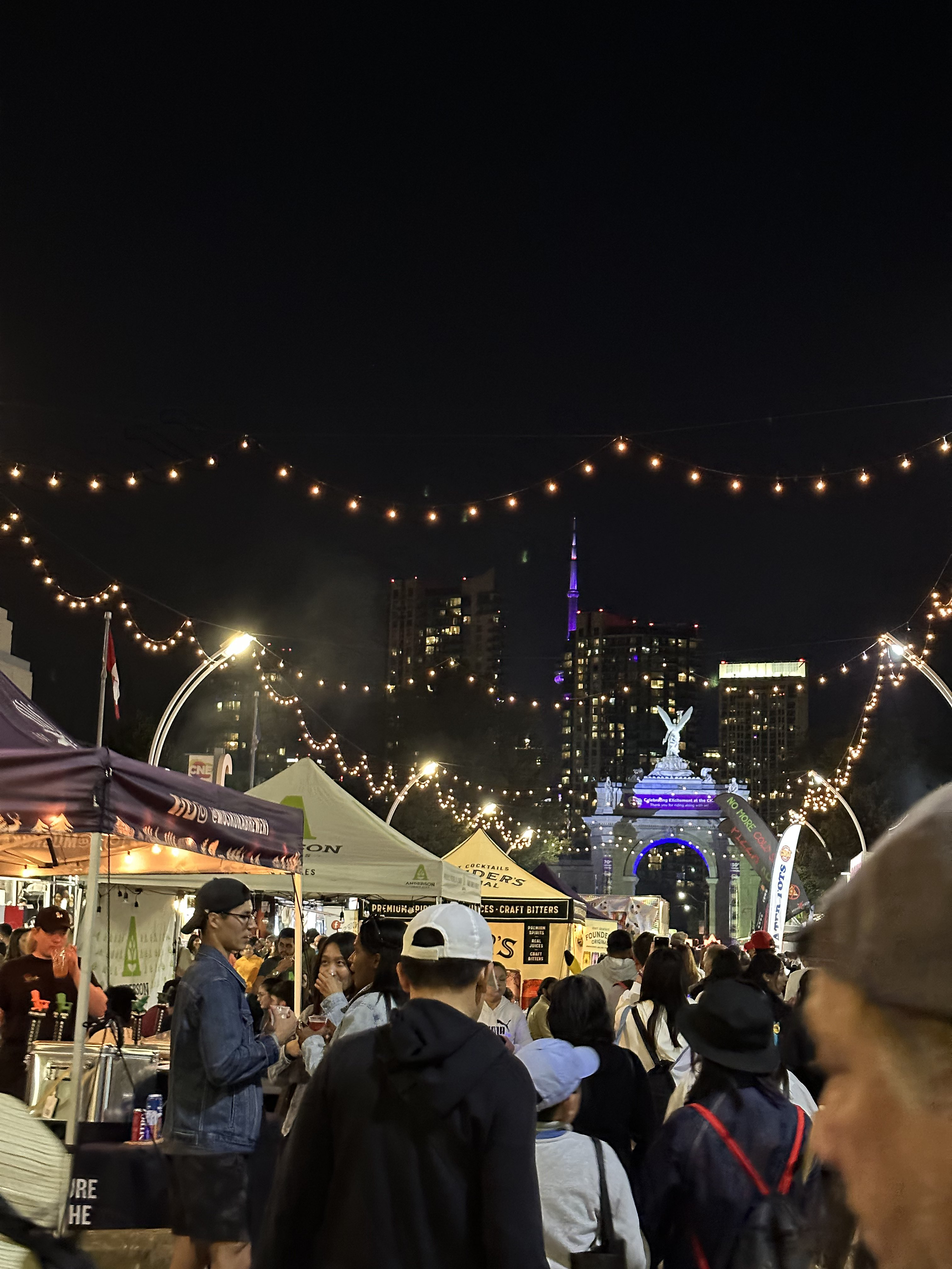
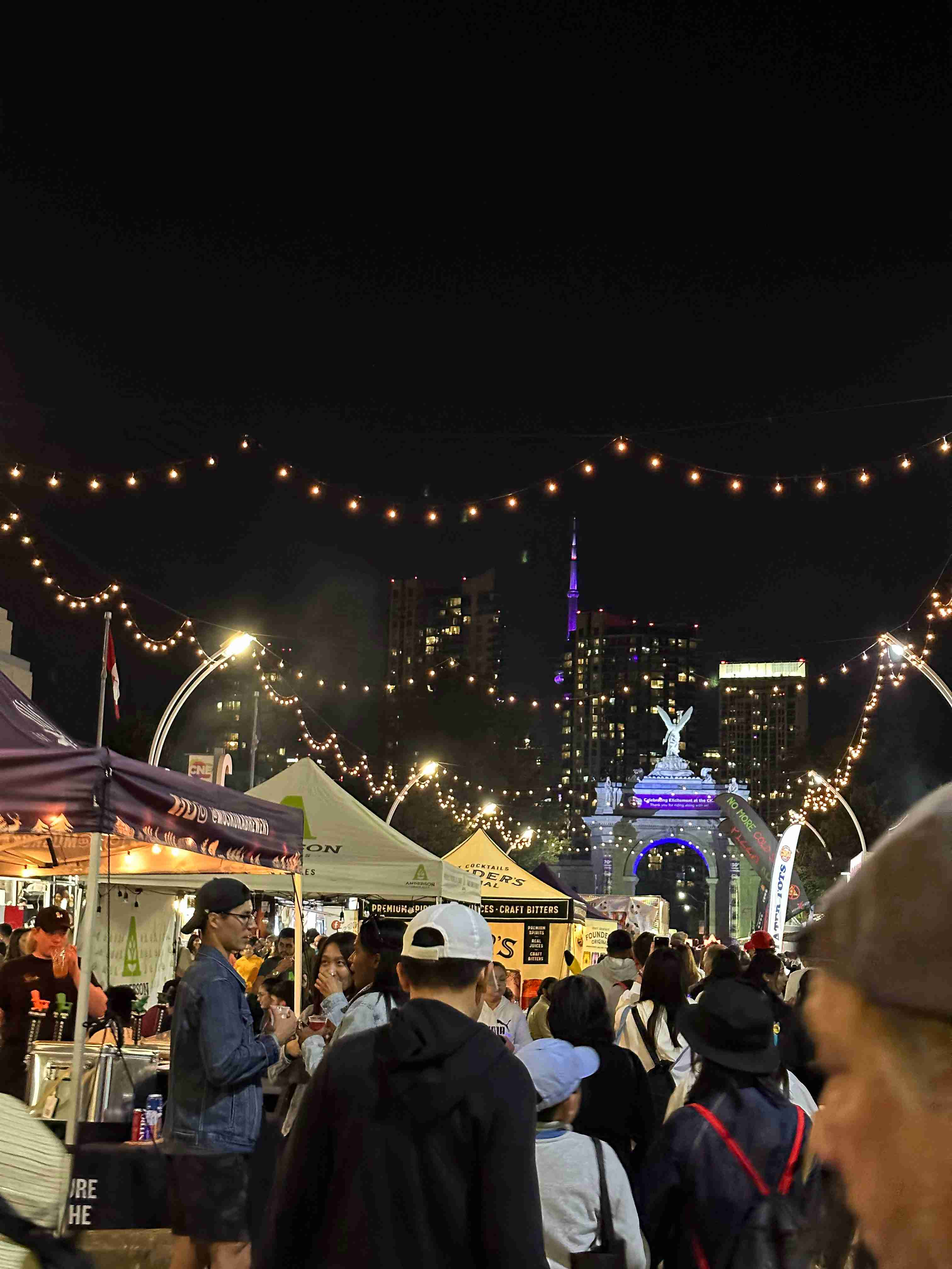
optimized images

diff --git a/src/app/blog/[slug]/page.tsx b/src/app/blog/[slug]/page.tsx
@@ -6,9 +6,9 @@ import { FC } from "react";
 import matter from "gray-matter";
 import type { Metadata } from "next";
 import HighlightedMarkdown from "@/components/Highlight";
-import Views from "@/components/View/server";
 import { BlogTitle } from "@/components/Blog";
 import { getBlogFile } from "@/utils/files";
+import { default as CatError } from "@/components/Error";
 
 type Props = {
   params: { slug: string };
@@ -53,23 +53,28 @@ export async function generateMetadata({ params }: Props): Promise<Metadata> {
 const Page: FC<Props> = async ({ params }) => {
   const blogTitle = params.slug.split("%20").join(" ");
   const blogContent = getBlogFile(blogTitle);
+
+  if (!blogContent)
+    return (
+      <main>
+        <CatError
+          message={`Not Sure If I've Ever Written About ${blogTitle} Before`}
+        />
+      </main>
+    );
   return (
     <main>
       <article className="prose prose-pre:bg-[#282c34] prose-code:text-white prose-base prose-p:text-lg prose-headings:text-white prose-p:text-paragraph prose-strong:text-cyan-600 prose-a:text-cyan-600 prose-li:text-paragraph prose-table:text-paragraph prose-img:rounded-lg">
-        {true ? (
-          <div>
-            <BlogTitle
-              title={blogTitle}
-              date={blogContent?.data.publish}
-              readTime={blogContent?.data.ttr}
-            />
-            {blogContent && (
-              <HighlightedMarkdown>{blogContent.content}</HighlightedMarkdown>
-            )}
-          </div>
-        ) : (
-          <p>No blogs here</p>
-        )}
+        <div>
+          <BlogTitle
+            title={blogTitle}
+            date={blogContent.data.publish}
+            readTime={blogContent.data.ttr}
+          />
+          {blogContent && (
+            <HighlightedMarkdown>{blogContent.content}</HighlightedMarkdown>
+          )}
+        </div>
       </article>
     </main>
   );

diff --git a/src/components/Blog/index.tsx b/src/components/Blog/index.tsx
@@ -23,29 +23,29 @@ export const BlogCard: FC<BlogCardProps> = ({
   return (
     <Link
       href={`/blog/${title}`}
-      className="flex group justify-between items-center rounded-md"
+      className="block space-y-3 md:space-y-2 group rounded-md"
     >
-      <div className="space-y-2">
+      <div className="justify-between items-center flex gap-5">
         <h1 className="text-2xl text-cyan-600">{title}</h1>
-        <p className="text-paragraph italic text-base">
-          {date.toLocaleString("default", {
-            day: "numeric",
-            month: "long",
-            year: "numeric",
-          })}{" "}
-          &#x2022; {readTime} min read &#x2022;{" "}
-          <Suspense fallback={<span>fetching</span>}>
-            <Views slug={title} />
-          </Suspense>{" "}
-        </p>
-        <p>{description}</p>
-        <div className="space-x-2">
-          {tags.map((tag) => {
-            return <Tag key={tag} name={tag} />;
-          })}
-        </div>
+        <LinkOutlined className="group-hover:text-cyan-600 transition-colors duration-150" />
       </div>
-      <LinkOutlined className="group-hover:text-cyan-600 transition-colors duration-150" />
+      <p className="text-paragraph italic text-base">
+        {date.toLocaleString("default", {
+          day: "numeric",
+          month: "long",
+          year: "numeric",
+        })}{" "}
+        &#x2022; {readTime} min read &#x2022;{" "}
+        <Suspense fallback={<span>fetching</span>}>
+          <Views slug={title} />
+        </Suspense>{" "}
+      </p>
+      <p>{description}</p>
+      <div className="space-x-2">
+        {tags.map((tag) => {
+          return <Tag key={tag} name={tag} />;
+        })}
+      </div>
     </Link>
   );
 };

diff --git a/src/components/Titles/index.tsx b/src/components/Titles/index.tsx
@@ -9,14 +9,12 @@ const Title: FC = () => {
     1500,
     "hey, it's jackie i'm a student",
     1500,
-    "hey, it's jackie i'm a outdoorist",
-    1500,
     "hey, it's jackie i'm a engineer ",
     1500,
   ];
   return (
     <TypeAnimation
-      className="text-3xl font-semibold text-white"
+      className="text-3xl font-semibold text-white h-20 sm:h-fit"
       sequence={seq}
       repeat={Infinity}
     />
@@ -44,7 +42,7 @@ export const AboutTitle = () => {
 };
 
 export const BlogsTitle = () => {
-  const seq = ["i like to write about intresting tech!"];
+  const seq = ["i like to write about interesting tech!"];
   return (
     <TypeAnimation
       className="text-3xl font-semibold text-white"

diff --git a/src/components/Masonry/index.tsx b/src/components/Masonry/index.tsx
@@ -1,12 +1,10 @@
 "use client";
 import nanaimo from "../../../public/gallery/nanaimo.jpg";
-import spybird from "../../../public/gallery/spyBird.jpg";
 import squamish from "../../../public/gallery/squam.jpg";
 import cne from "../../../public/gallery/cne.jpg";
 import bike from "../../../public/gallery/nukeproof.jpg";
 import query from "../../../public/gallery/eastvan.jpg";
 import riverdale from "../../../public/gallery/riverdale.jpg";
-import bike2 from "../../../public/gallery/bike.jpg";
 
 import Image, { StaticImageData } from "next/image";
 import { FC } from "react";

diff --git a/src/components/Error/index.tsx b/src/components/Error/index.tsx
@@ -8,8 +8,8 @@ type ErrorProps = {
 const Error: FC<ErrorProps> = ({ message }) => {
   return (
     <div className="flex flex-col items-center gap-4">
-      <Image src={cat} alt="sleepy cat" className="md:w-32 w-24" />
-      <h2 className="font-code text-paragraph md:text-2xl text-xl text-center">
+      <Image src={cat} alt="sleepy cat" className="md:w-32 w-24 m-0" />
+      <h2 className="font-code text-paragraph md:text-2xl text-xl text-center m-0">
         {message}
       </h2>
     </div>

diff --git a/src/app/projects/page.tsx b/src/app/projects/page.tsx
@@ -11,7 +11,7 @@ const Page: FC = () => {
       <ProjectTitle />
       <p className="text-lg text-paragraph">
         I always try to incorporate technology that I find really cool and
-        exciting. Checkout some of the stuff I've been working on!
+        exciting. Checkout some of the stuff I&apos;ve been working on!
       </p>
       <section className="space-y-12">
         <Project

diff --git a/src/app/page.tsx b/src/app/page.tsx
@@ -5,7 +5,6 @@ import Title from "@/components/Titles";
 import Reveal from "@/components/Animation";
 import Database from "@/lib/db";
 import { Blog } from "@/types/types";
-import { WithId } from "mongodb";
 import TextLogo from "@/components/TextLogo";
 import Error from "@/components/Error";
 import { getBlogMetaData } from "@/utils/files";

diff --git a/src/actions.ts b/src/actions.ts
@@ -3,7 +3,7 @@ import Database from "./lib/db";
 import { Blog } from "./types/types";
 
 export const incViewCount = async (title: string) => {
-  const client = new Database();
+  const client = Database.getInstance();
   try {
     const db = await client.connect();
 
